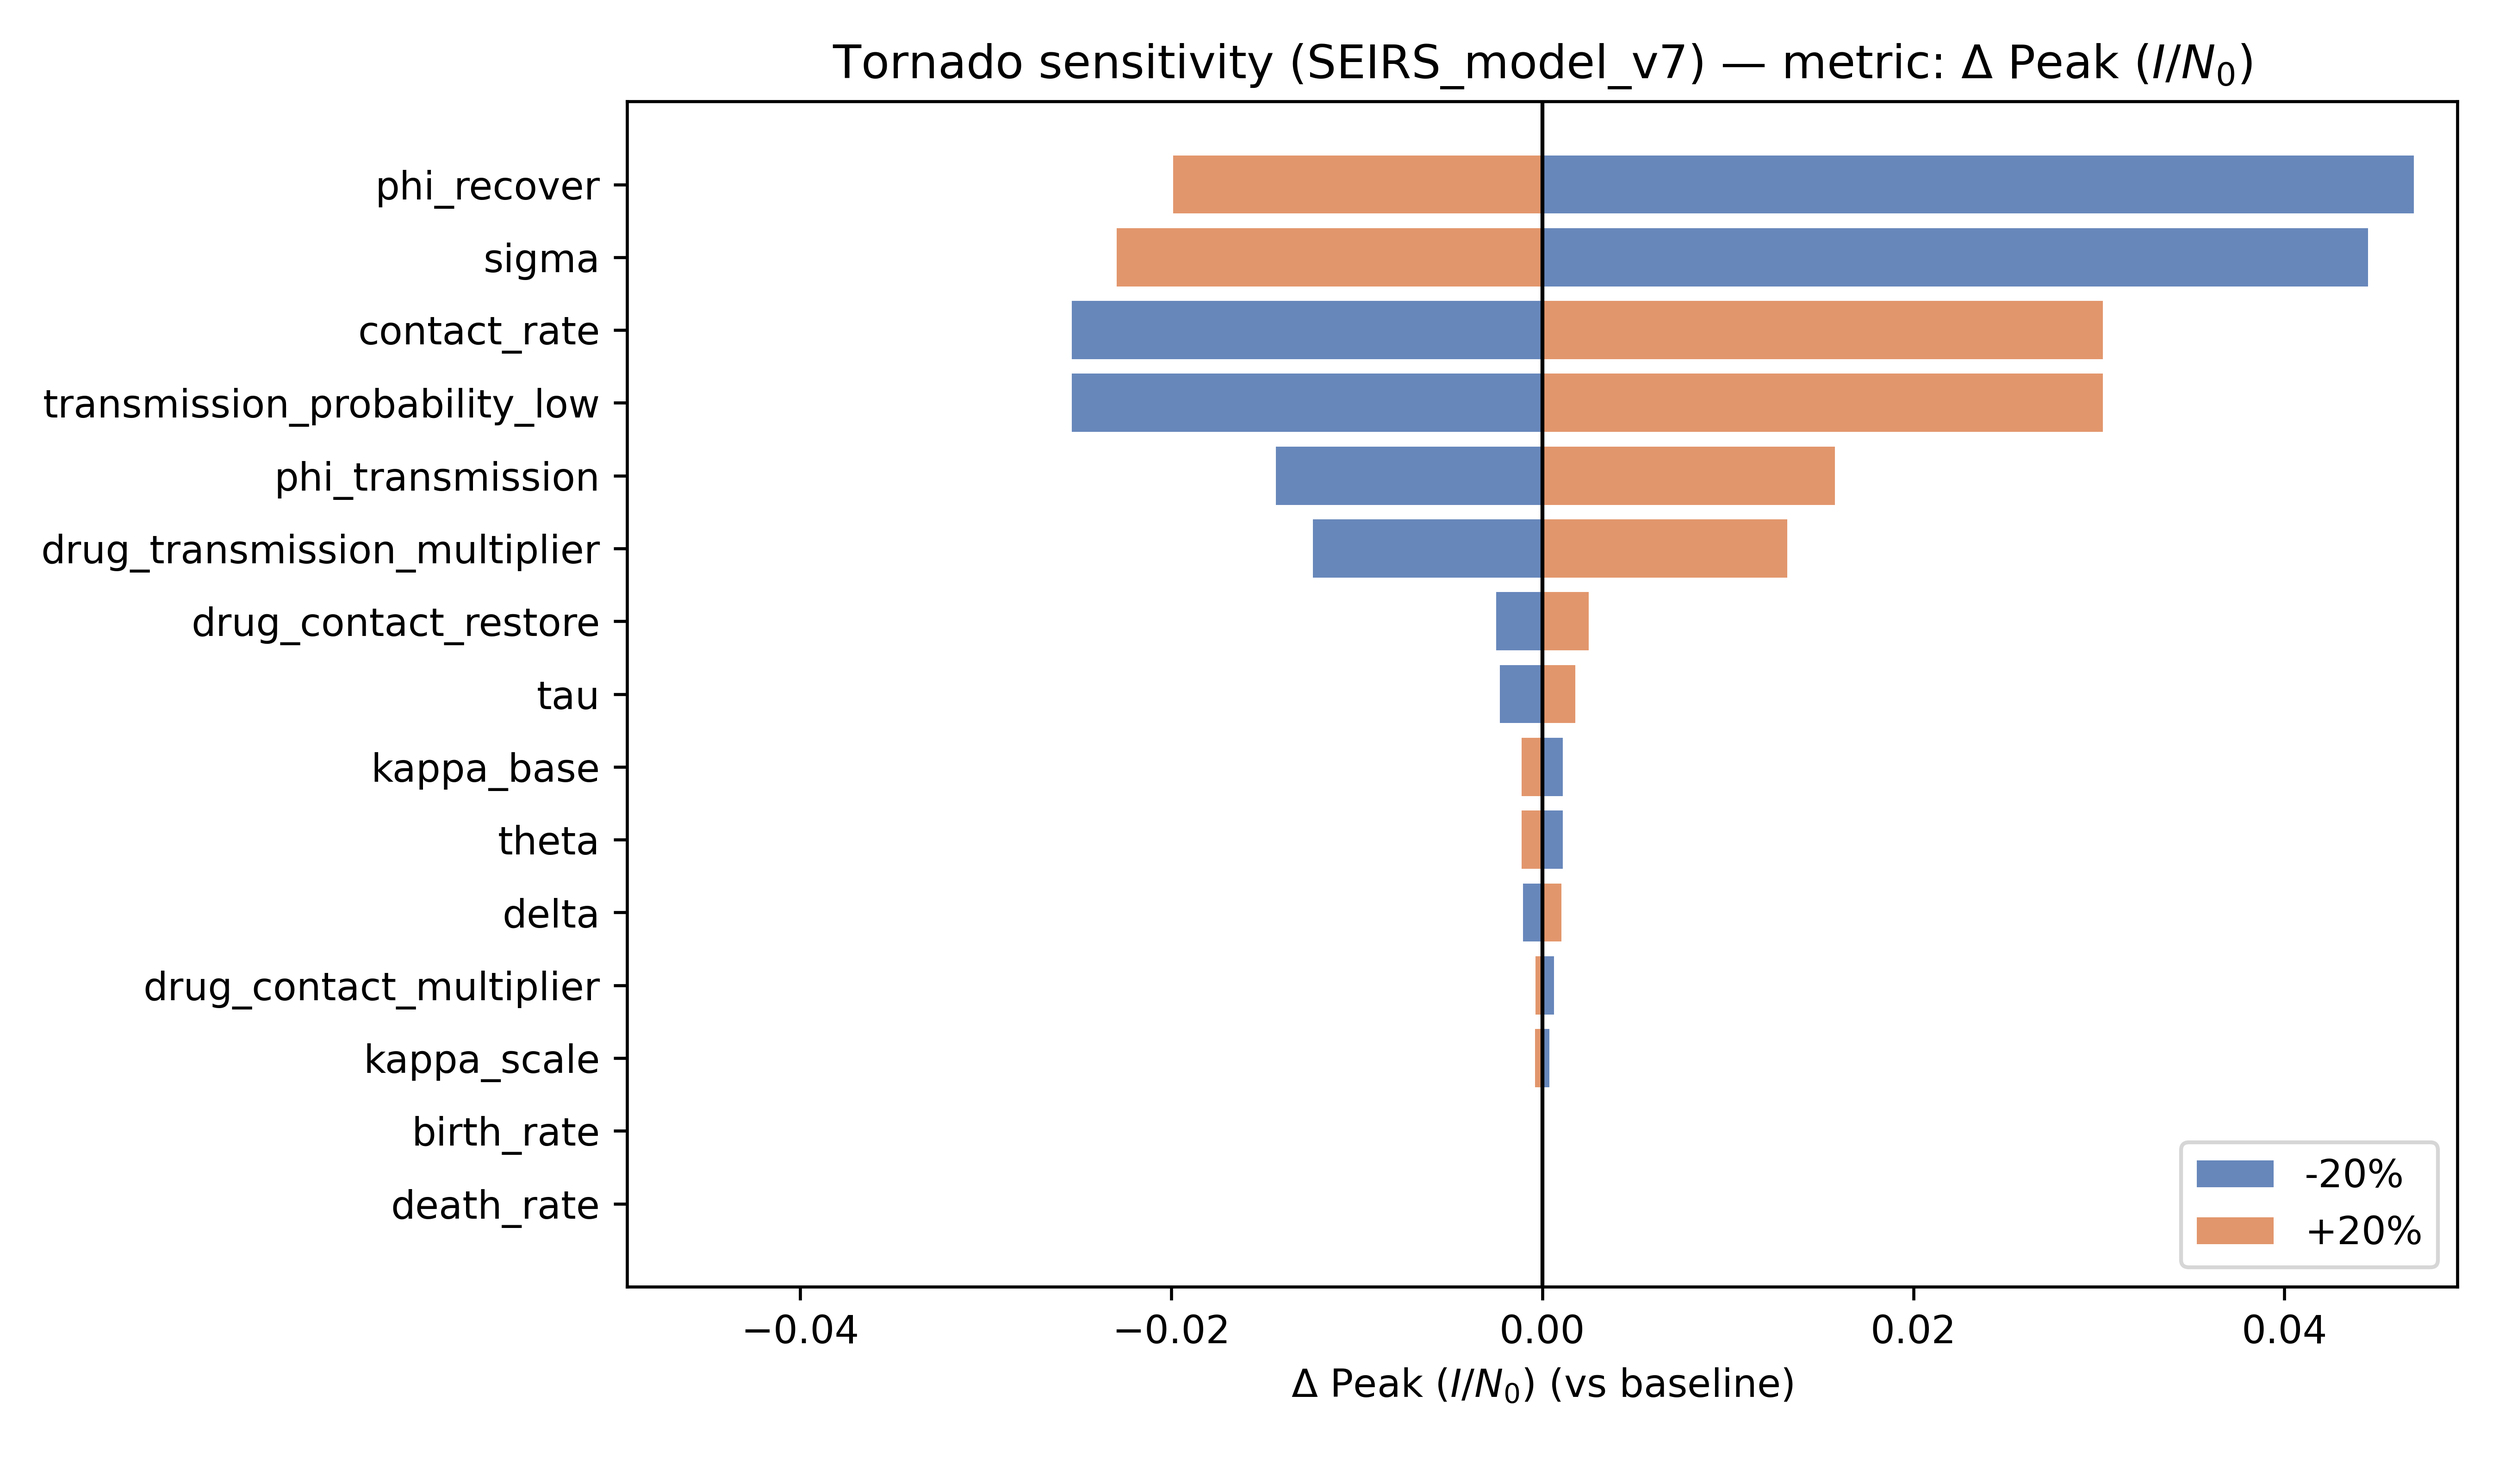
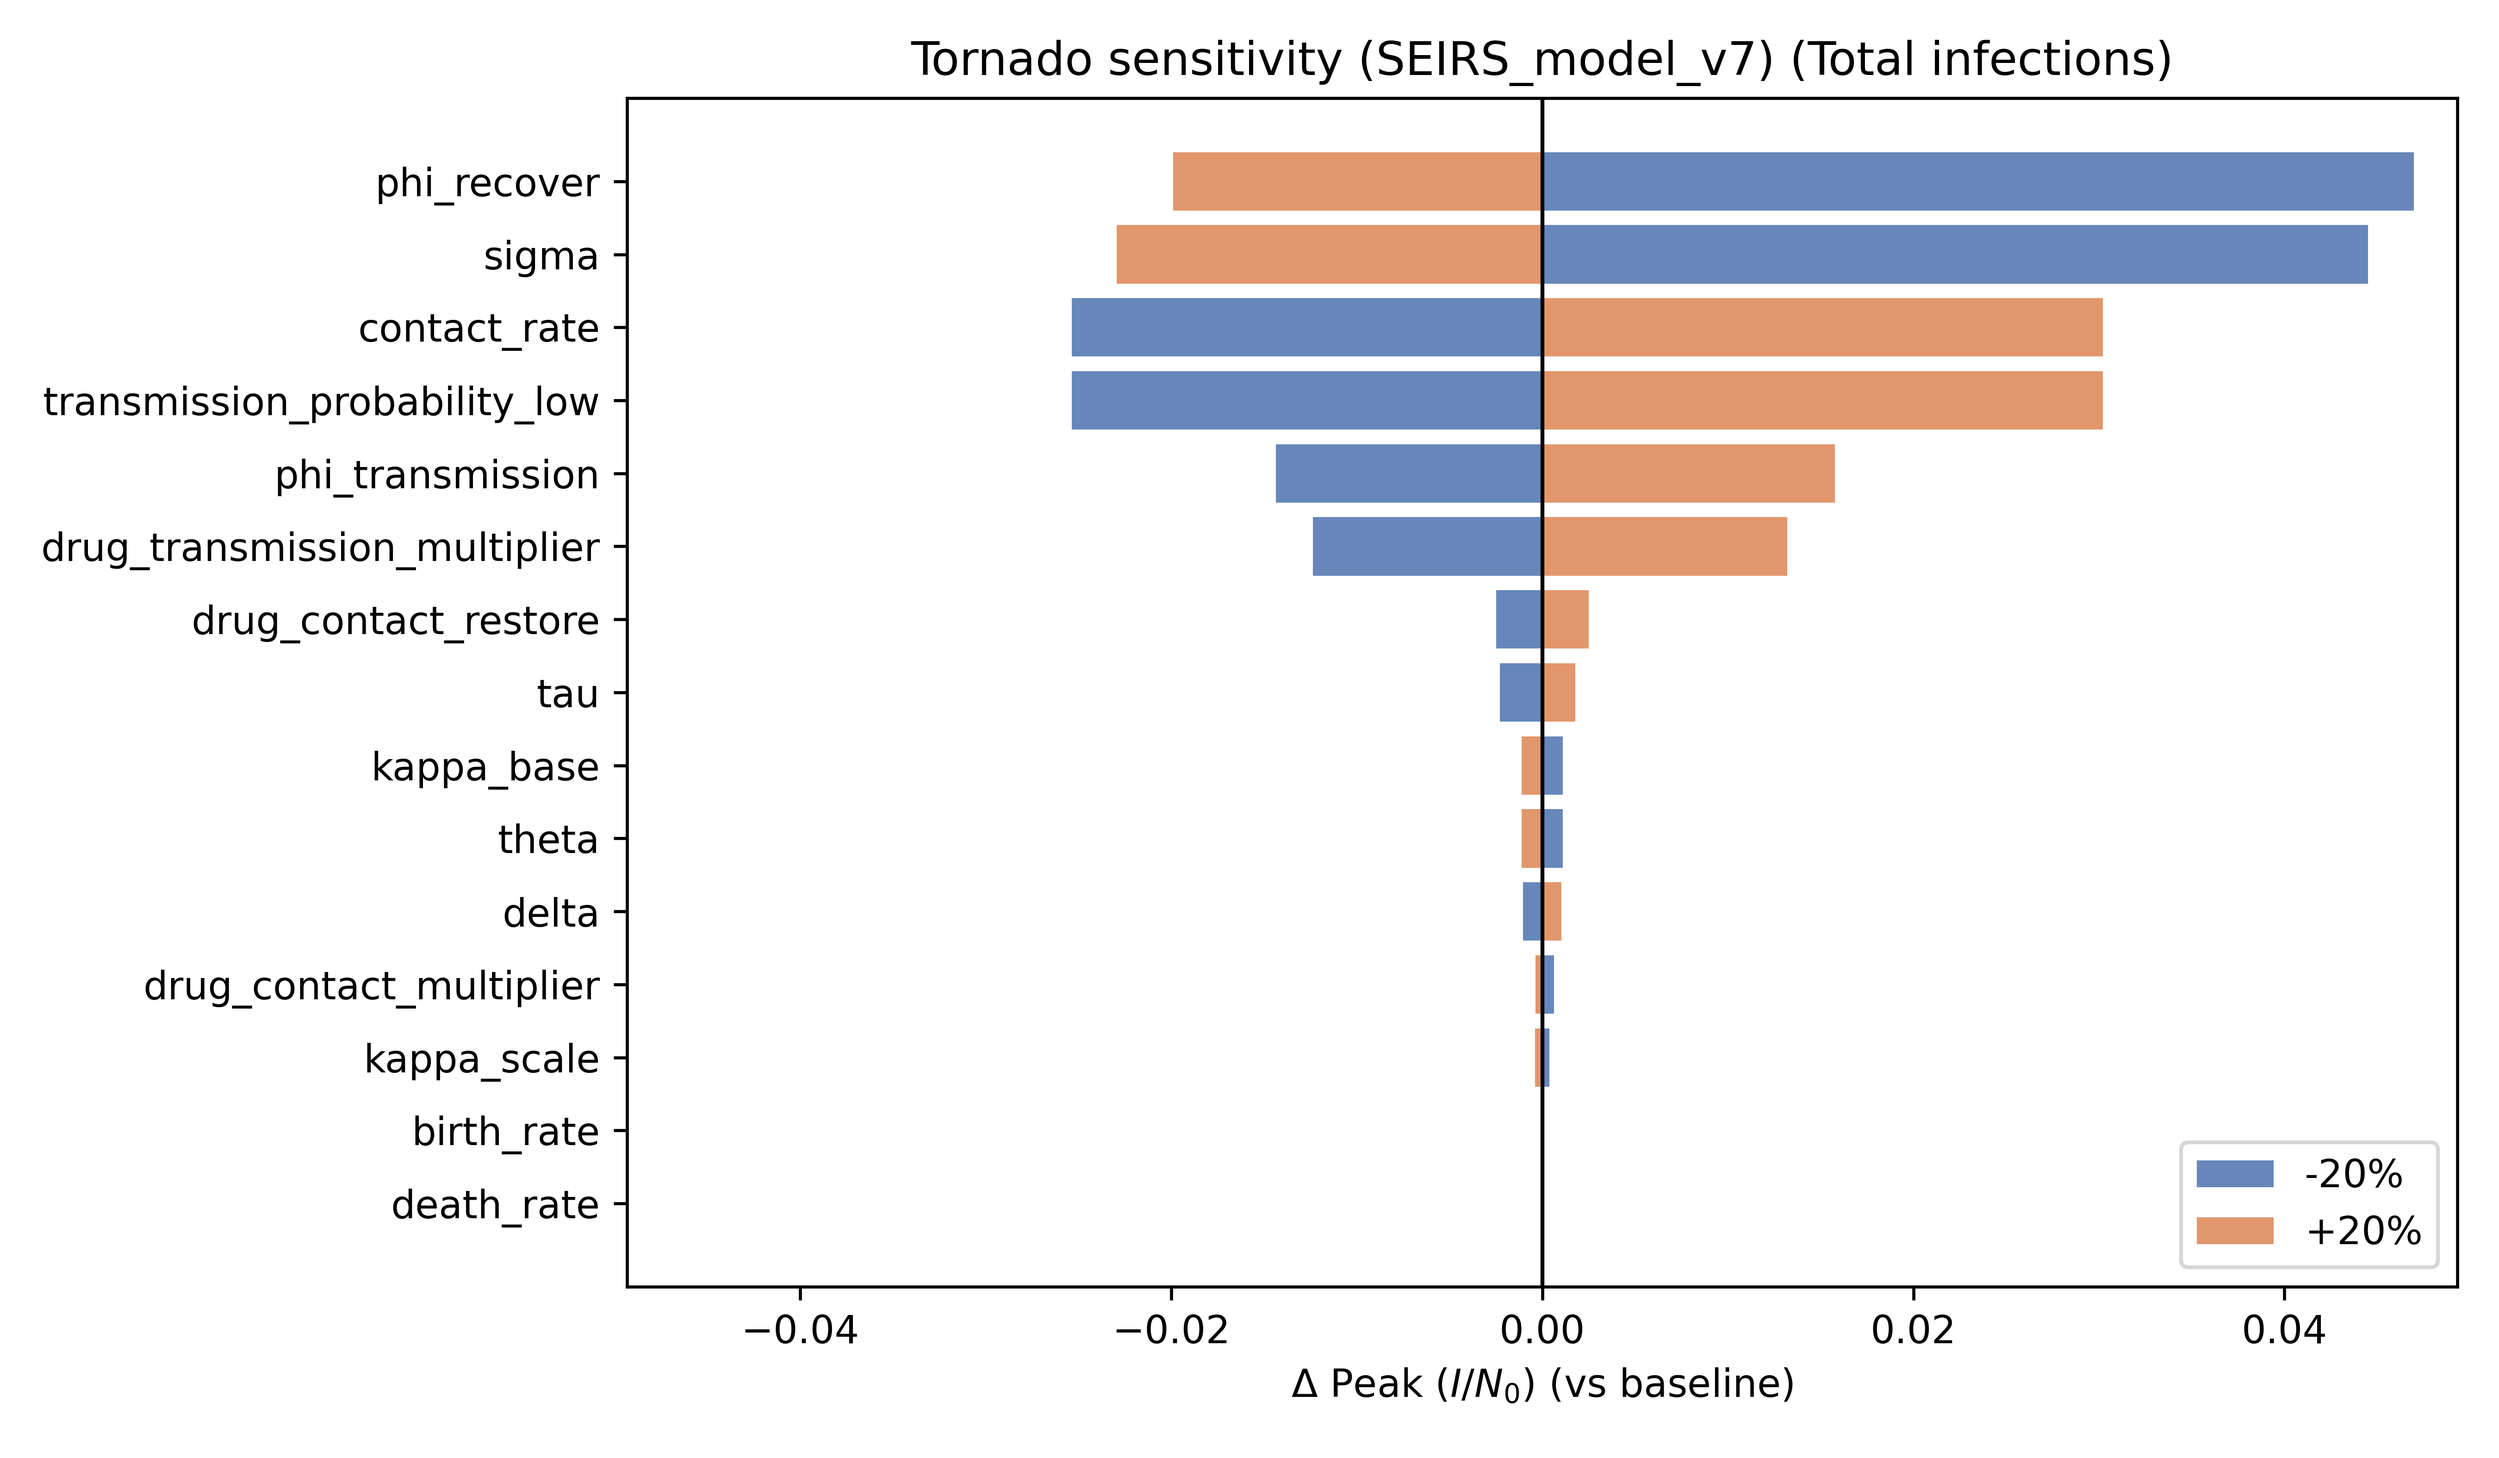
Add strain comparison functionality and new output files for tornado sensitivity analysis

diff --git a/Scripts/Tornado_sensitivity_v7.py b/Scripts/Tornado_sensitivity_v7.py
@@ -18,9 +18,10 @@ from Models import params as P
 # -------------------------
 # Configuration
 # -------------------------
-METRIC = "peak_I"          # "peak_I" or "S_end"
+METRIC = "peak_I"          # "peak_I", "peak_I_high", "peak_I_low", or "S_end"
 REL_PERTURB = 0.20         # +/- 20%
 FIG_DPI = 600
+STRAIN_COMPARISON = True   # If True, generate separate plots for high/low strains
 
 # Parameter keys for v7 tornado analysis
 # Note: v7 calculates c_high dynamically from c_low and phi_t,
@@ -141,17 +142,151 @@ def simulate_metric(param_dict, metric):
     S, Eh, Indh, Idh, Rh, El, Indl, Idl, Rl = sol.T
 
     I_tot = Indh + Idh + Indl + Idl
+    I_high = Indh + Idh
+    I_low = Indl + Idl
+    
     if metric == "peak_I":
         return float(np.max(I_tot) / N0)
+    if metric == "peak_I_high":
+        return float(np.max(I_high) / N0)
+    if metric == "peak_I_low":
+        return float(np.max(I_low) / N0)
     if metric == "S_end":
         return float(S[-1] / N0)
 
-    raise ValueError(f"Unknown METRIC={metric!r}. Use 'peak_I' or 'S_end'.")
+    raise ValueError(f"Unknown METRIC={metric!r}. Use 'peak_I', 'peak_I_high', 'peak_I_low', or 'S_end'.")
 
 
 def perturb(value, rel, direction):
     # direction: -1 or +1
     return float(value * (1.0 + direction * rel))
+
+
+def create_tornado_plot(rows, metric_name, output_suffix=""):
+    """Create and save a tornado plot from sensitivity data."""
+    labels = [r["param"] for r in rows]
+    neg = np.array([r["delta_low"] for r in rows], dtype=float)
+    pos = np.array([r["delta_high"] for r in rows], dtype=float)
+    y = np.arange(len(labels))
+
+    fig, ax = plt.subplots(figsize=(9, max(4.5, 0.35 * len(labels))))
+
+    # Negative side
+    ax.barh(y, neg, color="#4C72B0", alpha=0.85, label=f"-{int(REL_PERTURB*100)}%")
+    # Positive side
+    ax.barh(y, pos, color="#DD8452", alpha=0.85, label=f"+{int(REL_PERTURB*100)}%")
+
+    ax.axvline(0.0, color="k", lw=1)
+    ax.set_yticks(y)
+    ax.set_yticklabels(labels)
+    ax.invert_yaxis()
+
+    # Set metric label
+    if "high" in metric_name.lower():
+        metric_label = r"$\Delta$ Peak $I_{high}/N_0$"
+        title_suffix = " (High-virulence strain)"
+    elif "low" in metric_name.lower():
+        metric_label = r"$\Delta$ Peak $I_{low}/N_0$"
+        title_suffix = " (Low-virulence strain)"
+    elif "S_end" in metric_name:
+        metric_label = r"$\Delta\, S_{end}/N_0$"
+        title_suffix = ""
+    else:
+        metric_label = r"$\Delta$ Peak $(I/N_0)$"
+        title_suffix = " (Total infections)"
+    
+    ax.set_xlabel(f"{metric_label} (vs baseline)")
+    ax.set_title(f"Tornado sensitivity (SEIRS_model_v7){title_suffix}")
+
+    ax.legend(loc="lower right", frameon=True)
+
+    # Tight x-limits around data
+    xmax = float(np.max(np.abs(np.concatenate([neg, pos, np.array([0.0])]))))
+    if xmax > 0:
+        ax.set_xlim(-1.05 * xmax, 1.05 * xmax)
+
+    plt.tight_layout()
+
+    # Save figure
+    out_dir = os.path.join(ROOT_DIR, "Figures")
+    os.makedirs(out_dir, exist_ok=True)
+    fig_path = os.path.join(out_dir, f"Tornado_v7_{metric_name}{output_suffix}.png")
+    plt.savefig(fig_path, dpi=FIG_DPI)
+    print(f"Saved: {fig_path}")
+    plt.close(fig)
+    
+    return fig_path
+
+
+def save_csv_results(rows, metric_name, output_suffix=""):
+    """Save tornado results to CSV."""
+    csv_dir = os.path.join(ROOT_DIR, "Outputs")
+    os.makedirs(csv_dir, exist_ok=True)
+    csv_path = os.path.join(csv_dir, f"Tornado_v7_{metric_name}{output_suffix}.csv")
+    with open(csv_path, "w", newline="") as f:
+        w = csv.DictWriter(f, fieldnames=list(rows[0].keys()) if rows else [])
+        if rows:
+            w.writeheader()
+            w.writerows(rows)
+    print(f"Saved: {csv_path}")
+    return csv_path
+
+
+def print_summary(rows, metric_name):
+    """Print summary of top influential parameters."""
+    print("\n" + "="*60)
+    print(f"PARAMETER SENSITIVITY SUMMARY: {metric_name}")
+    print("="*60)
+    for i, r in enumerate(rows[:10], 1):  # Top 10 most influential
+        print(f"{i:2d}. {r['param']:30s} | max Δ = {r['max_abs_delta']:+.6f}")
+    print("="*60)
+
+
+def run_tornado_analysis(param_keys, base_params, metric_name):
+    """Run tornado analysis for a given metric."""
+    baseline_val = simulate_metric(base_params, metric_name)
+    print(f"\nBaseline {metric_name}: {baseline_val:.8f}")
+
+    rows = []
+    for key in param_keys:
+        if key not in base_params:
+            continue
+
+        v0 = float(base_params[key])
+
+        v_low = clamp_param(key, perturb(v0, REL_PERTURB, -1))
+        v_high = clamp_param(key, perturb(v0, REL_PERTURB, +1))
+
+        d_low = dict(base_params)
+        d_high = dict(base_params)
+        d_low[key] = v_low
+        d_high[key] = v_high
+
+        out_low = simulate_metric(d_low, metric_name)
+        out_high = simulate_metric(d_high, metric_name)
+
+        neg = out_low - baseline_val
+        pos = out_high - baseline_val
+
+        rows.append(
+            {
+                "param": key,
+                "base": v0,
+                "low": v_low,
+                "high": v_high,
+                "metric_base": baseline_val,
+                "metric_low": out_low,
+                "metric_high": out_high,
+                "delta_low": neg,
+                "delta_high": pos,
+                "max_abs_delta": max(abs(neg), abs(pos)),
+            }
+        )
+
+    # Sort by influence (largest first)
+    rows.sort(key=lambda r: r["max_abs_delta"], reverse=True)
+    
+    return rows, baseline_val
 
 
 # -------------------------
@@ -160,102 +295,86 @@ def perturb(value, rel, direction):
 base = get_base_param_dict()
 base = {k: clamp_param(k, v) for k, v in base.items()}
 
-baseline_val = simulate_metric(base, METRIC)
-print(f"Baseline {METRIC}: {baseline_val:.8f}")
+print("="*60)
+print("TORNADO SENSITIVITY ANALYSIS - SEIRS Model v7")
+print("="*60)
 
-rows = []
-for key in PARAM_KEYS:
-    if key not in base:
-        continue
+# Main analysis for specified METRIC
+rows, baseline_val = run_tornado_analysis(PARAM_KEYS, base, METRIC)
+create_tornado_plot(rows, METRIC)
+save_csv_results(rows, METRIC)
+print_summary(rows, METRIC)
 
-    v0 = float(base[key])
-
-    v_low = clamp_param(key, perturb(v0, REL_PERTURB, -1))
-    v_high = clamp_param(key, perturb(v0, REL_PERTURB, +1))
-
-    d_low = dict(base)
-    d_high = dict(base)
-    d_low[key] = v_low
-    d_high[key] = v_high
-
-    out_low = simulate_metric(d_low, METRIC)
-    out_high = simulate_metric(d_high, METRIC)
-
-    neg = out_low - baseline_val
-    pos = out_high - baseline_val
-
-    rows.append(
-        {
-            "param": key,
-            "base": v0,
-            "low": v_low,
-            "high": v_high,
-            "metric_base": baseline_val,
-            "metric_low": out_low,
-            "metric_high": out_high,
-            "delta_low": neg,
-            "delta_high": pos,
-            "max_abs_delta": max(abs(neg), abs(pos)),
-        }
-    )
-
-# Sort by influence (largest first)
-rows.sort(key=lambda r: r["max_abs_delta"], reverse=True)
-
-# -------------------------
-# Plot tornado
-# -------------------------
-labels = [r["param"] for r in rows]
-neg = np.array([r["delta_low"] for r in rows], dtype=float)
-pos = np.array([r["delta_high"] for r in rows], dtype=float)
-y = np.arange(len(labels))
-
-fig, ax = plt.subplots(figsize=(9, max(4.5, 0.35 * len(labels))))
-
-# Negative side
-ax.barh(y, neg, color="#4C72B0", alpha=0.85, label=f"-{int(REL_PERTURB*100)}%")
-# Positive side
-ax.barh(y, pos, color="#DD8452", alpha=0.85, label=f"+{int(REL_PERTURB*100)}%")
-
-ax.axvline(0.0, color="k", lw=1)
-ax.set_yticks(y)
-ax.set_yticklabels(labels)
-ax.invert_yaxis()
-
-metric_label = r"$\Delta$ Peak $(I/N_0)$" if METRIC == "peak_I" else r"$\Delta\, S_{end}/N_0$"
-ax.set_xlabel(f"{metric_label} (vs baseline)")
-ax.set_title(f"Tornado sensitivity (SEIRS_model_v7) — metric: {metric_label}")
-
-ax.legend(loc="lower right", frameon=True)
-
-# Tight x-limits around data
-xmax = float(np.max(np.abs(np.concatenate([neg, pos, np.array([0.0])]))))
-if xmax > 0:
-    ax.set_xlim(-1.05 * xmax, 1.05 * xmax)
-
-plt.tight_layout()
-
-# Save outputs
-out_dir = os.path.join(ROOT_DIR, "Figures")
-os.makedirs(out_dir, exist_ok=True)
-fig_path = os.path.join(out_dir, f"Tornado_v7_{METRIC}.png")
-plt.savefig(fig_path, dpi=FIG_DPI)
-print(f"Saved: {fig_path}")
-
-# Also save a CSV table for inspection
-csv_dir = os.path.join(ROOT_DIR, "Outputs")
-os.makedirs(csv_dir, exist_ok=True)
-csv_path = os.path.join(csv_dir, f"Tornado_v7_{METRIC}.csv")
-with open(csv_path, "w", newline="") as f:
-    w = csv.DictWriter(f, fieldnames=list(rows[0].keys()) if rows else [])
-    if rows:
-        w.writeheader()
-        w.writerows(rows)
-print(f"Saved: {csv_path}")
+# If strain comparison requested, analyze each strain separately
+if STRAIN_COMPARISON and METRIC == "peak_I":
+    print("\n" + "="*60)
+    print("STRAIN-SPECIFIC ANALYSIS")
+    print("="*60)
+    
+    # High-virulence strain
+    print("\n--- HIGH-VIRULENCE STRAIN ---")
+    rows_high, baseline_high = run_tornado_analysis(PARAM_KEYS, base, "peak_I_high")
+    create_tornado_plot(rows_high, "peak_I_high", "_strain_comparison")
+    save_csv_results(rows_high, "peak_I_high", "_strain_comparison")
+    print_summary(rows_high, "peak_I_high")
+    
+    # Low-virulence strain
+    print("\n--- LOW-VIRULENCE STRAIN ---")
+    rows_low, baseline_low = run_tornado_analysis(PARAM_KEYS, base, "peak_I_low")
+    create_tornado_plot(rows_low, "peak_I_low", "_strain_comparison")
+    save_csv_results(rows_low, "peak_I_low", "_strain_comparison")
+    print_summary(rows_low, "peak_I_low")
+    
+    # Create comparison plot
+    print("\n--- CREATING COMPARISON FIGURE ---")
+    fig, (ax1, ax2) = plt.subplots(1, 2, figsize=(16, max(5, 0.35 * len(PARAM_KEYS))))
+    
+    # High strain (left panel)
+    labels_high = [r["param"] for r in rows_high]
+    neg_high = np.array([r["delta_low"] for r in rows_high], dtype=float)
+    pos_high = np.array([r["delta_high"] for r in rows_high], dtype=float)
+    y_high = np.arange(len(labels_high))
+    
+    ax1.barh(y_high, neg_high, color="#4C72B0", alpha=0.85, label=f"-{int(REL_PERTURB*100)}%")
+    ax1.barh(y_high, pos_high, color="#DD8452", alpha=0.85, label=f"+{int(REL_PERTURB*100)}%")
+    ax1.axvline(0.0, color="k", lw=1)
+    ax1.set_yticks(y_high)
+    ax1.set_yticklabels(labels_high)
+    ax1.invert_yaxis()
+    ax1.set_xlabel(r"$\Delta$ Peak $I_{high}/N_0$ (vs baseline)")
+    ax1.set_title("High-virulence strain")
+    ax1.legend(loc="lower right", frameon=True)
+    xmax_high = float(np.max(np.abs(np.concatenate([neg_high, pos_high, np.array([0.0])]))))
+    if xmax_high > 0:
+        ax1.set_xlim(-1.05 * xmax_high, 1.05 * xmax_high)
+    
+    # Low strain (right panel)
+    labels_low = [r["param"] for r in rows_low]
+    neg_low = np.array([r["delta_low"] for r in rows_low], dtype=float)
+    pos_low = np.array([r["delta_high"] for r in rows_low], dtype=float)
+    y_low = np.arange(len(labels_low))
+    
+    ax2.barh(y_low, neg_low, color="#4C72B0", alpha=0.85, label=f"-{int(REL_PERTURB*100)}%")
+    ax2.barh(y_low, pos_low, color="#DD8452", alpha=0.85, label=f"+{int(REL_PERTURB*100)}%")
+    ax2.axvline(0.0, color="k", lw=1)
+    ax2.set_yticks(y_low)
+    ax2.set_yticklabels(labels_low)
+    ax2.invert_yaxis()
+    ax2.set_xlabel(r"$\Delta$ Peak $I_{low}/N_0$ (vs baseline)")
+    ax2.set_title("Low-virulence strain")
+    ax2.legend(loc="lower right", frameon=True)
+    xmax_low = float(np.max(np.abs(np.concatenate([neg_low, pos_low, np.array([0.0])]))))
+    if xmax_low > 0:
+        ax2.set_xlim(-1.05 * xmax_low, 1.05 * xmax_low)
+    
+    fig.suptitle("Tornado Sensitivity Comparison (SEIRS_model_v7)", fontsize=14, y=0.995)
+    plt.tight_layout()
+    
+    comparison_path = os.path.join(ROOT_DIR, "Figures", "Tornado_v7_strain_comparison.png")
+    plt.savefig(comparison_path, dpi=FIG_DPI)
+    print(f"Saved: {comparison_path}")
+    plt.close(fig)
 
 print("\n" + "="*60)
-print("PARAMETER SENSITIVITY SUMMARY (sorted by influence)")
-print("="*60)
-for i, r in enumerate(rows[:10], 1):  # Top 10 most influential
-    print(f"{i:2d}. {r['param']:30s} | max Δ = {r['max_abs_delta']:+.6f}")
+print("ANALYSIS COMPLETE")
 print("="*60)
